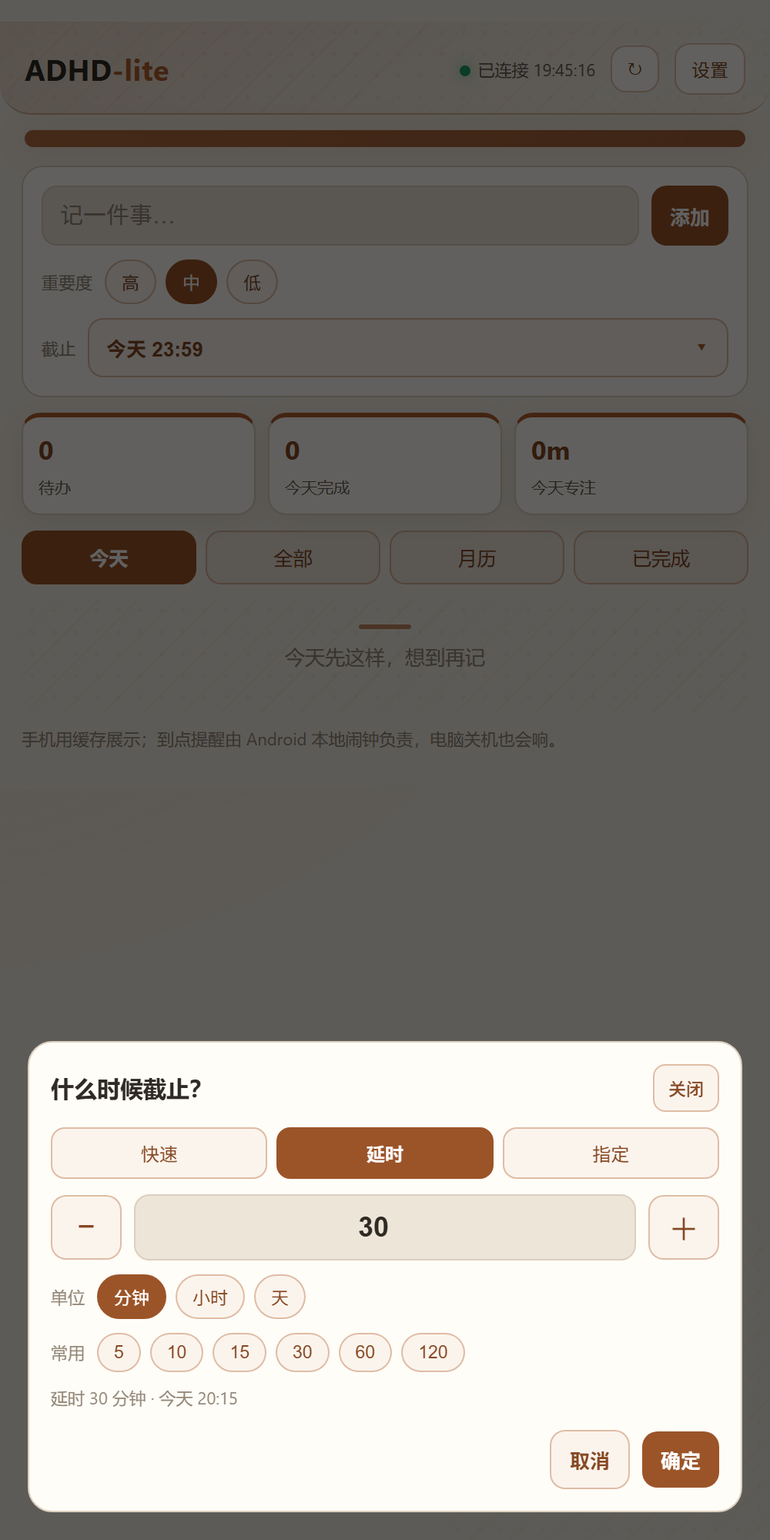
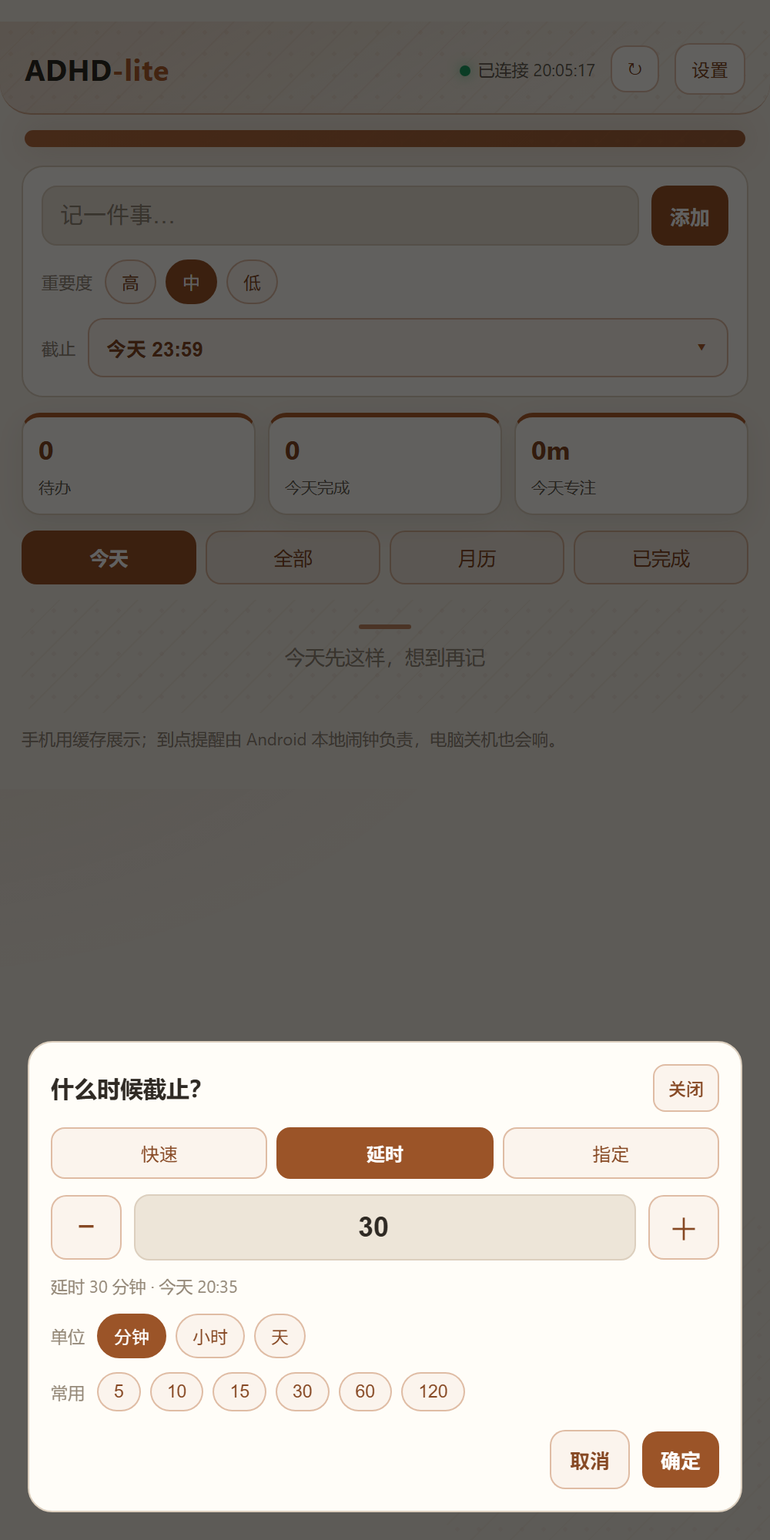
fix(v0.11.5): 键盘弹出时截止弹层浮到键盘上方

Changed region(s): [[0.062, 0.806, 0.589, 0.93]]

diff --git a/android/app/assets/mobile.html b/android/app/assets/mobile.html
@@ -2,7 +2,7 @@
 <html lang="zh-CN">
 <head>
 <meta charset="utf-8">
-<meta name="viewport" content="width=device-width,initial-scale=1,maximum-scale=1,viewport-fit=cover">
+<meta name="viewport" content="width=device-width,initial-scale=1,maximum-scale=1,viewport-fit=cover,interactive-widget=resizes-content">
 <meta name="theme-color" content="#0f1419">
 <title>ADHD-lite</title>
 <style>
@@ -109,6 +109,7 @@
   .overload .btn { margin-left:auto; }
   .modal { position:fixed; inset:0; background:rgba(0,0,0,.62); display:none; z-index:50; padding:18px; }
   .modal.show { display:flex; align-items:flex-end; }
+  .modal .sheet { max-height:calc(100% - 36px); }
   .sheet { width:100%; max-width:720px; margin:0 auto; background:var(--card); border:1px solid var(--line);
     border-radius:16px; padding:14px; max-height:82vh; overflow:auto; }
   .sheet h3 { margin:0 0 8px; font-size:15px; }
@@ -348,6 +349,7 @@
         <input id="delayNum" type="number" min="1" value="30" inputmode="numeric" aria-label="延时数字">
         <button class="stepbtn" id="delayPlus" aria-label="增加">＋</button>
       </div>
+      <div class="hint" id="delayPreview"></div>
       <div class="chips" id="delayUnits">
         <span class="label">单位</span>
         <button class="chip on" data-u="min">分钟</button>
@@ -363,7 +365,6 @@
         <button class="chip" data-n="60">60</button>
         <button class="chip" data-n="120">120</button>
       </div>
-      <div class="hint" id="delayPreview"></div>
     </div>
 
     <div id="dueDatePane" class="duepane hidden">
@@ -440,6 +441,7 @@
   var dateTime = "21:00";
   var dateSynced = false;
   var timePick = "";
+  var dueInputFocused = false;
   var busy = false;
   var pollTimer = null;
   var splitSteps = [];
@@ -753,6 +755,7 @@
     $("dueModal").classList.add("show");
     if (dueTab === "date" && !dateSynced) syncDateFromDue();
     paintDueSheet();
+    setTimeout(syncDueViewport, 0);
   }
   function syncDateFromDue(){
     var d = new Date(duePick.due);
@@ -776,7 +779,32 @@
     }
     dateSynced = true;
   }
-  function closeDueSheet(){ $("dueModal").classList.remove("show"); }
+  function closeDueSheet(){
+    dueInputFocused = false;
+    var m = $("dueModal");
+    if (m) {
+      m.classList.remove("show");
+      m.style.height = "";
+      m.style.top = "";
+      m.style.bottom = "";
+    }
+  }
+  function syncDueViewport(){
+    var m = $("dueModal");
+    if (!m) return;
+    if (!dueInputFocused) {
+      m.style.height = "";
+      m.style.top = "";
+      m.style.bottom = "";
+      return;
+    }
+    var vv = window.visualViewport;
+    if (vv && vv.height > 0) {
+      m.style.height = vv.height + "px";
+      m.style.top = vv.offsetTop + "px";
+      m.style.bottom = "auto";
+    }
+  }
   function paintDueSheet(){
     var tabs = $("dueTabs").querySelectorAll(".segbtn");
     for (var i=0;i<tabs.length;i++) tabs[i].classList.toggle("on", tabs[i].getAttribute("data-tab") === dueTab);
@@ -1416,6 +1444,25 @@
       closeDueSheet();
     }
   };
+  $("dueModal").addEventListener("focusin", function(e){
+    if (!e.target || e.target.tagName !== "INPUT") return;
+    dueInputFocused = true;
+    setTimeout(syncDueViewport, 60);
+    setTimeout(syncDueViewport, 320);
+  });
+  $("dueModal").addEventListener("focusout", function(){
+    setTimeout(function(){
+      if (!$("dueModal").contains(document.activeElement)) {
+        dueInputFocused = false;
+        syncDueViewport();
+      }
+    }, 220);
+  });
+  if (window.visualViewport) {
+    window.visualViewport.addEventListener("resize", syncDueViewport);
+    window.visualViewport.addEventListener("scroll", syncDueViewport);
+  }
+  window.addEventListener("resize", syncDueViewport);
   $("styleChips").addEventListener("click", function(e){
     var b = e.target.closest("button[data-s]"); if (!b) return;
     var st = b.getAttribute("data-s");

diff --git a/docs/新会话交接摘要.md b/docs/新会话交接摘要.md
@@ -1,6 +1,6 @@
 # ADHD-lite 交接摘要（给下一个会话）
 
-> 生成时间：2026-10-26 19:45（v0.11.4 后更新）　·　生成者：v0.11.4 开发会话
+> 生成时间：2026-10-26 20:05（v0.11.5 后更新）　·　生成者：v0.11.5 开发会话
 > 配套文档：`README.md`（用户手册）、`docs/现状与剩余任务.md`（逐轮变更记录）、`docs/题目对照与剩余任务.md`（对题差距）
 > 本文件是"接手前必读"：东西在哪、怎么改、怎么验、还剩什么。
 
@@ -8,7 +8,7 @@
 
 ## 0. 一句话现状
 
-**331.5 KB 原生 WPF exe（C# 5 / .NET Framework 4.8）+ 44.6 KB Android APK（versionCode 16）。v0.11.4 把手机截止选择重做成「一个按钮 + 快速/延时/指定三页」：快速点一下、延时用步进器+常用值、指定用日期/时间快选；桌面 exe 仍是 v0.11.0。**
+**331.5 KB 原生 WPF exe（C# 5 / .NET Framework 4.8）+ 44.6 KB Android APK（versionCode 17）。v0.11.5 修了手机截止弹层的键盘遮挡：输入框 focus 时用 `visualViewport` 让弹层浮到键盘上方；截止选择仍是 v0.11.4 的「一个按钮 + 快速/延时/指定三页」；桌面 exe 仍是 v0.11.0。**
 桌面仍是单进程、无后台服务：电脑上的提醒要程序开着；手机提醒是本地闹钟，电脑关机也能响。没有屏幕上下文，也不做自动排一天。
 
 ---
@@ -25,7 +25,7 @@ D:\ADHD清单\                     ← 工程根（也就是工作目录）
 │   ├─ app\                      Android 源码（WebView + AlarmManager + 本地通知）
 │   ├─ build-apk.ps1             不动 Gradle：aapt2 + javac + d8 + zipalign + apksigner
 │   ├─ debug.keystore            调试签名（升级 APK 必须同一个）
-│   ├─ dist\ADHD-lite-android-v0.11.4.apk
+│   ├─ dist\ADHD-lite-android-v0.11.5.apk
 │   └─ README.md                 安装 / Tailscale / 构建 / 更新说明
 ├─ src\
 │   ├─ Program.cs   4840 行      全部逻辑：热键/调度/存储/托盘/悬浮球/录入窗/提醒窗/诊断/自检/自检隔离
@@ -82,6 +82,7 @@ D:\ADHD清单\                     ← 工程根（也就是工作目录）
 | **v0.11.2** | **4 底色 × 6 色、点按/操作中/完成反馈、连接诊断、Windows 防火墙 17890 规则** | ✅（APK 40.6 KB / versionCode 14；真机连通待确认） |
 | **v0.11.3** | **setAlarmClock 后台闹钟、全屏提醒、点开「到点了」弹窗、后台自检** | ✅（APK 44.6 KB / versionCode 15；真机后台提醒待确认） |
 | **v0.11.4** | **手机截止重做：一个按钮 + 快速/延时步进器/指定快选** | ✅（APK 44.6 KB / versionCode 16；真机待确认） |
+| **v0.11.5** | **键盘避让：visualViewport 让截止弹层浮到键盘上方** | ✅（APK 44.6 KB / versionCode 17；真机待确认） |
 
 ### 关键交互（改代码前必须知道）
 
@@ -105,6 +106,7 @@ D:\ADHD清单\                     ← 工程根（也就是工作目录）
    - 快速：15/30/60/180 分钟、明天 09:00/21:00、后天 09:00，一点即设；
    - 延时：− / 数字 / ＋（分钟步长 5，小时/天 1）+ 常用 5/10/15/30/60/120 + 单位分钟/小时/天 + 实时预览；
    - 指定：今天/明天/后天/选日期 + 09:00/12:00/18:00/21:00/23:59/选时间，原生输入框只在需要时出现。
+   - v0.11.5：输入框 focus 时用 `window.visualViewport` 把弹层 height/top 对齐可视区域，键盘不会盖住预览；关闭弹层/失焦复位。
 16. **手机通知**：通道 `adhd_alarm_v1` 用系统闹铃声音 + 长震动 + 锁屏可见；设置页「通知通道设置」可打开横幅/声音/震动。测试通知用 Handler 5 秒直发，不走 AlarmManager。
 17. **手机点按反馈/连接诊断**：按钮/分页/任务按下缩放变暗；操作先 toast「正在…」、完成后提示；`busy` 时点按提示「正在同步」。设置页「连接诊断」分开显示 `/health` 和 `/state` 结果。
 18. **Windows 防火墙**：本机已加 `ADHD-lite mobile sync (TCP 17890)` 入站规则（TCP，RemoteIP=100.64.0.0/10,LocalSubnet，Any profile）；手机连不上先查这条。
@@ -159,7 +161,7 @@ cmd /c "build.cmd < nul"
 .\ADHD-lite.exe --ai-smoke      # 真实 Key 六项各调一次（约 0.006 元）；用临时目录，不碰真实清单
                                 # Agent 沙箱里 TLS 拿不到凭证会 6 项全失败，正常双击不受影响
 powershell -NoProfile -ExecutionPolicy Bypass -File android\build-apk.ps1
-                                # 生成 android\dist\ADHD-lite-android-v0.11.4.apk（需 SDK 35）
+                                # 生成 android\dist\ADHD-lite-android-v0.11.5.apk（需 SDK 35）
 
 # 渲染截图（只渲染自己，不碰桌面）
 .\ADHD-lite.exe --snapshot  a.png            # 录入窗
@@ -246,7 +248,7 @@ git checkout -- src/Program.cs   # 单个文件回滚
 12. **深色主题**：20 套里只有科幻的侧栏是深色，右侧内容区仍浅色；完整深色需要正文/卡片反相。
 13. **托盘图标**在这台机器上始终不出现（环境问题，悬浮球兜底）；`docs\清单页.png` 是 v0.2 过期截图，可删；`_electron_fallback\` 369 MB 可删。
 14. **2 天使用报告**：用户明确说自己用、不需要；真要做时数据已经齐（`tasks.json` 的 `createdAt/startedAt/spentMs/doneAt/kind` + `startup.log`）。
-15. **Android 真机验证**：v0.11.4 APK 已编译/验签，但当前没有连接手机/模拟器；需要在 Android 手机上实际安装，验证新的截止三页选择、退后台闹钟/全屏提醒/后台自检、连通、响铃/横幅、精确闹钟、WebView 到 `file://` 的 fetch/CORS 和 Tailscale 连接。
+15. **Android 真机验证**：v0.11.5 APK 已编译/验签，但当前没有连接手机/模拟器；需要在 Android 手机上实际安装，验证截止三页选择/键盘避让、退后台闹钟/全屏提醒/后台自检、连通、响铃/横幅、精确闹钟、WebView 到 `file://` 的 fetch/CORS 和 Tailscale 连接。
 16. **手机端限制**：没有后台同步服务，手机只能轮询；没做复杂冲突合并（同一任务同时改以电脑端最后写入为准）；APK 是 debug 签名、未上架；手机 App 需要手动填地址和令牌（没有扫码配对）。
 17. **手机更新不是静默安装**：v0.11 已支持“检查新版本 → 从电脑 `/apk` 下载 → 系统安装确认”，但 Android 禁止应用静默自更新；要做到全自动需要 root/设备所有者/应用商店。
 18. **更新包依赖桌面目录**：`/apk` 从 exe 旁边的 `android\dist\*.apk` 取最新文件；绿色版 zip 不含这个目录，手机更新会提示“电脑上没有 APK”。
@@ -257,9 +259,9 @@ git checkout -- src/Program.cs   # 单个文件回滚
 
 1. 读：`README.md`（用户视角）→ 本文件 → `docs/现状与剩余任务.md`（逐轮为什么这么改）。
 2. 确认能编：`cmd /c "build.cmd < nul"`，再跑 `--selftest` + `--ui-selftest`，**必须先看到 0 个 FAIL**。
-3. 桌面手机 API 已用 Tailscale 实测； **下一步最重要是 Android 真机**：安装 `android\dist\ADHD-lite-android-v0.11.4.apk`（覆盖旧版，debug 签名相同），开启手机同步，填 `http://100.x.x.x:17890` + 令牌。
-   - 先看设置页：应显示 `App v0.11.4`、连接状态、通知/通道/响铃/精确闹钟/后台/全屏状态；连不上先点「连接诊断」。
-   - 点截止按钮，试快速/延时/指定三页；再点「后台自检（30 秒）」，30 秒内划掉 App/锁屏，确认是否响铃+弹「到点了」。
+3. 桌面手机 API 已用 Tailscale 实测； **下一步最重要是 Android 真机**：安装 `android\dist\ADHD-lite-android-v0.11.5.apk`（覆盖旧版，debug 签名相同），开启手机同步，填 `http://100.x.x.x:17890` + 令牌。
+   - 先看设置页：应显示 `App v0.11.5`、连接状态、通知/通道/响铃/精确闹钟/后台/全屏状态；连不上先点「连接诊断」。
+   - 点截止按钮，试快速/延时/指定三页；在延时数字框里打字，确认弹层浮在键盘上方；再点「后台自检（30 秒）」，30 秒内划掉 App/锁屏，确认是否响铃+弹「到点了」。
    - 点「测试通知（5 秒）」，再点「通知通道设置」确认横幅/声音/震动。
    - 再建一条 2 分钟后截止的任务，锁屏验证；然后测双向同步、AI 计划本地通知、手机完成后电脑端勾掉。
    - 若测试通知弹、任务不弹：看 `/state` 是否返回任务（桌面命令会打印），再看 JS bridge 是否调用；权限/电池优化不要当程序坏。

diff --git a/README.md b/README.md
@@ -1,4 +1,4 @@
-# ADHD-lite（v0.11.4 · 手机端）
+# ADHD-lite（v0.11.5 · 手机端）
 
 > 接手/继续开发请先看 [docs/新会话交接摘要.md](docs/新会话交接摘要.md)；逐轮变更记录在 [docs/现状与剩余任务.md](docs/现状与剩余任务.md)。
 
@@ -12,6 +12,7 @@
 > v0.11.2 再补：手机 4 种底色（柔和/冷白/素雅/墨夜）× 6 色、点击按压+操作中/完成反馈、连接诊断（/health + /state 分开显示）；Windows 防火墙已加 17890 入站规则。
 > v0.11.3 补后台提醒：AlarmManager 改用 `setAlarmClock`（更像系统闹钟，划掉 App 也不容易被吞）、通知加全屏提醒、点开弹「到点了」；新增「后台自检（30 秒）」和「允许全屏提醒」。
 > v0.11.4 重做手机截止选择：主界面只留一个「今天 23:59 ▾」，点开是「快速 / 延时 / 指定」三页；延时改成步进器 + 常用值，指定改成日期/时间快选，不再一上来就摆两个原生输入框。
+> v0.11.5 修键盘遮挡：输入延时数字/日期/时间时，底部弹层会随 `visualViewport` 浮到键盘上方，实时预览也上移了。
 > 不截屏、不读别的窗口；桌面 exe 331.5 KB（v0.11.0，本轮未改）+ Android APK 44.6 KB；AI 只在你主动点按钮 / 排提醒时联网。
 
 ![清单：现在做哪件](docs/清单-现在做哪件.png)
@@ -102,9 +103,9 @@
 要重新打包：双击 `pack.cmd`（会先编译，再生成 zip），或先 `build.cmd` 后运行
 `powershell -NoProfile -ExecutionPolicy Bypass -File tools\pack.ps1`。`dist\` 不进 git。
 
-### Android 手机端（v0.11.4）
+### Android 手机端（v0.11.5）
 
-1. 手机安装 `android\dist\ADHD-lite-android-v0.11.4.apk`（允许未知来源；同 debug 签名可覆盖旧版）。
+1. 手机安装 `android\dist\ADHD-lite-android-v0.11.5.apk`（允许未知来源；同 debug 签名可覆盖旧版）。
 2. 首次打开允许通知；Android 12+ 再点「允许精确闹钟」，并把电池优化设为「不受限制」。
 3. 电脑和手机都登录 **Tailscale**（推荐），或在同一 Wi-Fi。
 4. 电脑：设置拉到最底部 →「手机 / 同步」→ 点亮开关，点「连接手机」展开地址和令牌，再填进手机 App。
@@ -115,6 +116,7 @@
      - **快速**：15 分钟 / 30 分钟 / 1 小时 / 3 小时 / 明天 09:00 / 明天 21:00 / 后天 09:00，点一下直接设定；
      - **延时**：− / 数字 / ＋ 步进器（分钟步长 5，小时/天步长 1）+ 常用 5/10/15/30/60/120，实时预览绝对时间；
      - **指定**：今天 / 明天 / 后天 / 选日期 + 09:00/12:00/18:00/21:00/23:59/选时间，原生输入框只在点「选日期/选时间」时出现。
+     - **键盘**：输入延时数字或日期/时间时，弹层会跟着 `visualViewport` 缩小并浮到键盘上方，预览时间不会被盖住。
 6. 手机外观：**4 种底色**（柔和 / 冷白 / 素雅 / 墨夜）× **6 个更深强调色**（青瓷 / 雾蓝 / 暖砂 / 梅子 / 赤陶 / 松烟）；页头、统计数字、分页、任务优先级标签、按钮和留白纹样都会跟着变色。默认「柔和 · 暖砂 · 浅色」，只存在手机本地，不影响电脑。
 7. 设置页右上角有「← 返回主界面」，同步轮询不会再把你踢回主界面；Android 返回键也按「设置 → 主界面 → 今天 → 退出」的顺序走。
 8. 设置页显示 **App 版本**；电脑端打包了新 APK 后，手机会出现「新版本」提示，点「下载并安装」即可。Android 不允许静默安装，系统还会再确认一次。
@@ -538,6 +540,7 @@ _electron_fallback\  跑不起来的 Electron 版（可删，省 369 MB）
 | **v0.11.2** | **4 底色 × 6 色；点按/操作中/完成反馈；连接诊断；Windows 防火墙 17890 规则** | ✅ 已完成（APK 40.6 KB / versionCode 14） |
 | **v0.11.3** | **setAlarmClock 后台闹钟、全屏提醒 + 点开「到点了」弹窗、后台自检（30 秒）** | ✅ 已完成（APK 44.6 KB / versionCode 15） |
 | **v0.11.4** | **手机截止重做：快速 / 延时步进器 / 指定快选；主界面一个按钮** | ✅ 已完成（APK 44.6 KB / versionCode 16） |
+| **v0.11.5** | **键盘不再挡截止弹层：visualViewport 让弹层浮到键盘上方** | ✅ 已完成（APK 44.6 KB / versionCode 17） |
 | v0.12 | markdown 原生存储 / 手机离线冲突合并 / 手机通知「完成」动作 | 待做 |
 
 ### 清单页怎么打开

diff --git a/docs/新会话提示词.md b/docs/新会话提示词.md
@@ -1,6 +1,6 @@
-# 新会话开场提示词（2026-10-26 19:45 更新）
+# 新会话开场提示词（2026-10-26 20:05 更新）
 
-> 直接把下面整段复制给新会话。当前手机端 **v0.11.4**、桌面 exe **v0.11.0**，HEAD 见 `git log -1`，git 干净（本轮提交后）。
+> 直接把下面整段复制给新会话。当前手机端 **v0.11.5**、桌面 exe **v0.11.0**，HEAD 见 `git log -1`，git 干净（本轮提交后）。
 > 不要重做已经完成的主题、AI、手机端；先做「真机收尾」和清理。
 
 ---
@@ -21,9 +21,9 @@
 
 ## 当前状态（以此为准）
 
-- 版本：手机端 **v0.11.4**，桌面 exe **v0.11.0**（本轮未改桌面）；HEAD 见 `git log -1`；git 干净。
+- 版本：手机端 **v0.11.5**，桌面 exe **v0.11.0**（本轮未改桌面）；HEAD 见 `git log -1`；git 干净。
 - 桌面：`ADHD-lite.exe` **331.5 KB**；绿色包 `dist\ADHD-lite-v0.11.0-win64.zip`。
-- 手机：`android\dist\ADHD-lite-android-v0.11.4.apk`（**44.6 KB**，versionCode 16，debug 签名）。
+- 手机：`android\dist\ADHD-lite-android-v0.11.5.apk`（**44.6 KB**，versionCode 17，debug 签名）。
 - 验证：桌面 `--selftest` **46 行 / 0 FAIL**；`--ui-selftest` **16 项 / 0 FAIL**；手机页面 `node --check` 通过。
 - 手机 API 已在 Tailscale `http://100.x.x.x:17890` 跑通 `/health`、`/state`、`/add`、`/ai`、`/apk`；`/state` 已带 AI `plan` 和 `apkVersion`（v0.11.0 桌面可下发 v0.11.1 APK）。
 - 桌面「到点了」提醒修复已用临时任务实测：日志 `显示提醒: 提醒链路测试 / 到点了 / high`。
@@ -67,10 +67,10 @@
 
 ## 现在最该做的收尾（P0）
 
-1. **确认手机已升级到 v0.11.4**（Agent 这边 `adb devices` 为空，真机只能让用户操作）
-   - 设置页应显示 `App v0.11.4`；主界面默认浅色暖砂，有 4 种底色 × 6 色；截止只有一个「今天 23:59 ▾」按钮，点开是快速/延时/指定三页。
-   - 没有就装 `android\dist\ADHD-lite-android-v0.11.4.apk`；同 debug 签名可覆盖安装，失败先卸载旧版。
-   - 旧版也能从设置页看到「电脑上有新版本」→「下载并安装」，桌面 v0.11.0 的 `/apk` 会把 v0.11.4 发过去。
+1. **确认手机已升级到 v0.11.5**（Agent 这边 `adb devices` 为空，真机只能让用户操作）
+   - 设置页应显示 `App v0.11.5`；主界面默认浅色暖砂，有 4 种底色 × 6 色；截止只有一个「今天 23:59 ▾」按钮，点开是快速/延时/指定三页。
+   - 没有就装 `android\dist\ADHD-lite-android-v0.11.5.apk`；同 debug 签名可覆盖安装，失败先卸载旧版。
+   - 旧版也能从设置页看到「电脑上有新版本」→「下载并安装」，桌面 v0.11.0 的 `/apk` 会把 v0.11.5 发过去。
 2. **真机后台提醒（这轮重点）**
    - 点「后台自检（30 秒）」，30 秒内把 App 划掉或锁屏；应响铃 + 横幅 + 弹「到点了」。
    - 不响就依次看：精确闹钟（必须已允许）、电池不受限、全屏提醒（Android 14+）、系统自启动/后台弹出界面。
@@ -143,7 +143,7 @@
 
 ## 第一轮建议
 
-1. 先看手机是否 v0.11.4（设置页版本 + 4 底色 + 截止三页 + 后台自检）；没有就装。
+1. 先看手机是否 v0.11.5（设置页版本 + 4 底色 + 截止三页/键盘避让 + 后台自检）；没有就装。
 2. 在手机设置点「测试通知（5 秒）」，确认通知权限/精确闹钟/后台/已排数。
 3. 做一次双向同步 + 一条 2 分钟后截止的锁屏提醒。
 4. 把结果（尤其通知状态和是否弹）记下来，再决定是调 Android 通知还是收尾清理。

diff --git a/docs/现状与剩余任务.md b/docs/现状与剩余任务.md
@@ -1,4 +1,4 @@
-# ADHD-lite 现状与剩余任务（2026-10-26 v0.11.4 更新）
+# ADHD-lite 现状与剩余任务（2026-10-26 v0.11.5 更新）
 
 > 这份文档是给"下一个会话/下一次自己"看的：现在做到哪、哪些是真 bug、哪些是你提过但我没做的。
 > 证据来自上一个会话的完整记录（26 轮、436 次工具调用）＋当前源码＋`data/startup.log`（你 10-24 15:42 那次真实运行）。
@@ -436,10 +436,30 @@
 - 真机仍需确认：点截止按钮 → 三页切换、选完回到添加卡、添加后的截止正确。
 
 ---
+
+## 1.16 2026-10-26 20:05 第二十二轮（v0.11.5：键盘不挡截止弹层）
+
+> 目标：手机输入延时数字时键盘把设置时间挡住。
+> 产物：**只重打 Android APK 44.6 KB（versionCode 17）**；桌面 exe 仍是 v0.11.0（331.5 KB）。
+
+| # | 改了什么 | 验证 |
+|---|---|---|
+| 1 | `viewport` 增加 `interactive-widget=resizes-content`，键盘弹出时布局收缩 | 页面渲染 |
+| 2 | 输入框 focus 时用 `window.visualViewport` 把 `#dueModal` 的 height/top 对齐到可视区域；键盘收起/关闭弹层时复位 | 代码路径；`node --check` |
+| 3 | `.modal .sheet` max-height 改为 `calc(100% - 36px)`，弹层永远在可视区域内 | 截图 |
+| 4 | 延时预览从底部移到步进器下面，输入时更容易看到 | 截图 `docs\手机端-截止-延时.png` |
+
+**本轮验证**
+
+- APK：`aapt2 dump badging` = `com.adhd.lite` **versionCode 17 / versionName 0.11.5**；大小 45669 字节。
+- 手机页面：`node --check` 通过；500px 浏览器渲染正常。
+- 真机仍需确认：点「延时」→ 点数字框，键盘弹出时弹层和预览是否在键盘上方。
+
+---
 ## 1. 工程现状
 
-> 注：本节是 v0.4 时的快照（下面的 P0 已全部修复）；当前版本、体积和源码行数见 1.15。
-> 当前为 v0.11.4 手机端 / 桌面 exe 331.5 KB（v0.11.0）+ Android APK 44.6 KB / 4 底色 × 6 强调色 / 截止三页选择 / 后台闹钟 + 全屏提醒 / AI 助理六项 + 开机自启 + 绿色包 + 手机同步 + 手机主题/月历。
+> 注：本节是 v0.4 时的快照（下面的 P0 已全部修复）；当前版本、体积和源码行数见 1.16。
+> 当前为 v0.11.5 手机端 / 桌面 exe 331.5 KB（v0.11.0）+ Android APK 44.6 KB / 4 底色 × 6 强调色 / 截止三页选择 / 键盘避让 / 后台闹钟 + 全屏提醒 / AI 助理六项 + 开机自启 + 绿色包 + 手机同步 + 手机主题/月历。
 
 | 项 | 现状 |
 |---|---|

diff --git a/android/README.md b/android/README.md
@@ -4,7 +4,7 @@
 
 ## 安装
 
-1. 把 `dist\ADHD-lite-android-v0.11.4.apk` 发到手机（微信/QQ/数据线都可）。
+1. 把 `dist\ADHD-lite-android-v0.11.5.apk` 发到手机（微信/QQ/数据线都可）。
 2. 在手机上允许「安装未知来源应用」，安装 APK。
 3. 首次打开会请求通知权限；Android 12+ 再点一次「允许精确闹钟」，并在设置里把电池优化设为「不受限制」，否则提醒可能不准点。
 4. 在电脑端：`ADHD-lite.exe` → 设置 → 手机 / 同步 → 点亮「手机同步」。
@@ -12,6 +12,12 @@
    - 都登录 Tailscale 时用 `http://100.x.x.x:17890`（推荐）；
    - 同一 Wi-Fi 用 `http://192.168.x.x:17890`。
 6. 点「保存并连接」。电脑开着时手机即可增删改、开始/暂停、计时、AI 拆解/取舍。
+
+## v0.11.5 新增
+
+- **键盘不挡截止弹层**：输入延时数字/日期/时间时，用 `window.visualViewport` 把弹层高度和顶部对齐到可视区域，弹层浮在键盘上方；延时预览移到步进器下面。
+- `viewport` 加 `interactive-widget=resizes-content`，Android Chrome/WebView 键盘弹出时布局也会收缩。
+- 截止三页（快速/延时/指定）沿用 v0.11.4。
 
 ## v0.11.4 新增
 
@@ -84,7 +90,7 @@ cd D:\ADHD清单
 powershell -NoProfile -ExecutionPolicy Bypass -File android\build-apk.ps1
 ```
 
-产物：`android\dist\ADHD-lite-android-v0.11.4.apk`（versionCode 16，debug 签名）。
+产物：`android\dist\ADHD-lite-android-v0.11.5.apk`（versionCode 17，debug 签名）。
 
 说明：`aapt2` 在中文路径下会报 `failed to open directory`，脚本会先把 `app/` 复制到 ASCII 临时目录编译。脚本必须保存为 **UTF-8 with BOM**（Windows PowerShell 5.1 否则会把中文注释按 ANSI 解析，变量会变空）。
 
@@ -102,5 +108,5 @@ app/java/com/adhd/lite/
   ApkProvider.java              v0.11 给系统安装器读 update.apk 的最小 ContentProvider
 build-apk.ps1                   aapt2 + javac + d8 + zipalign + apksigner
 debug.keystore                  调试签名（升级 APK 必须用同一个）
-dist/                           生成的 APK（v0.11.4 已提交，便于直接安装）
+dist/                           生成的 APK（v0.11.5 已提交，便于直接安装）
 ```
